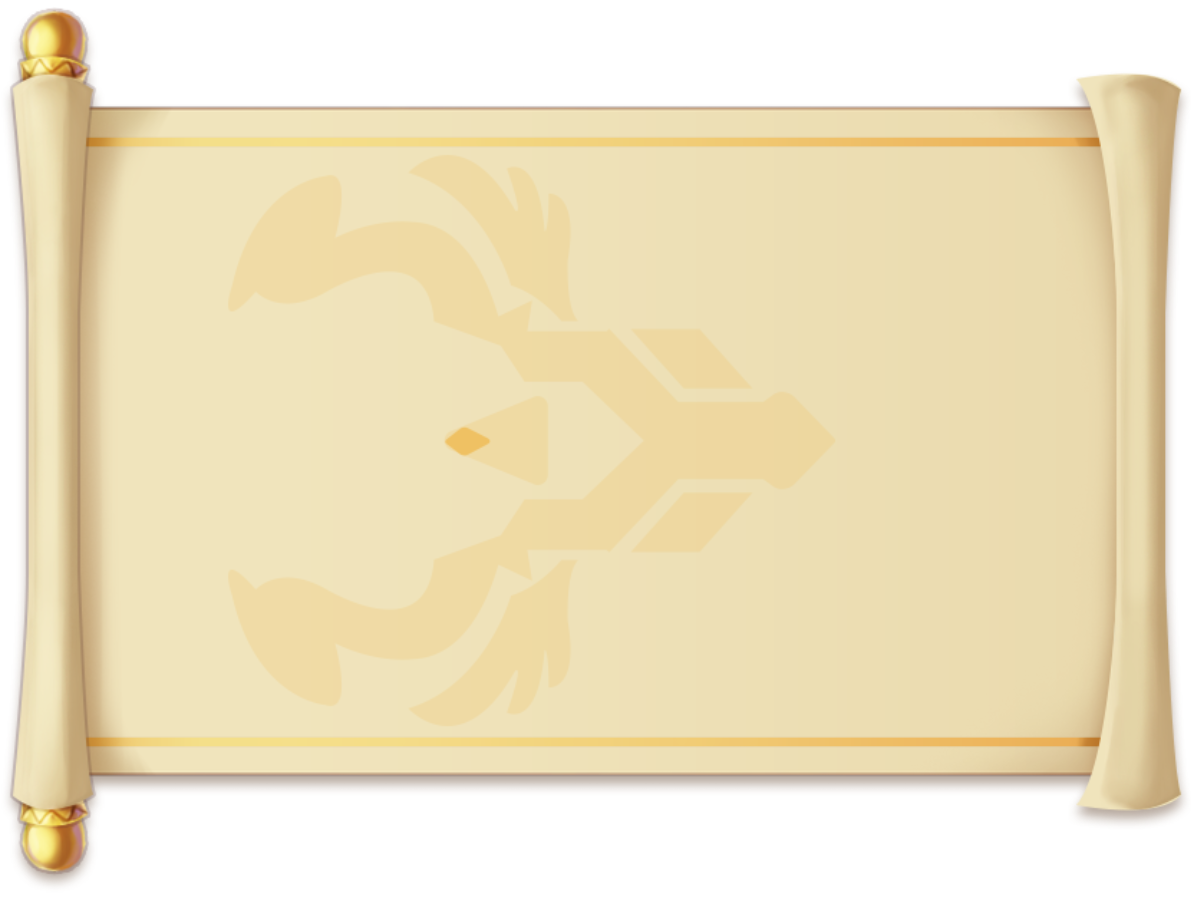
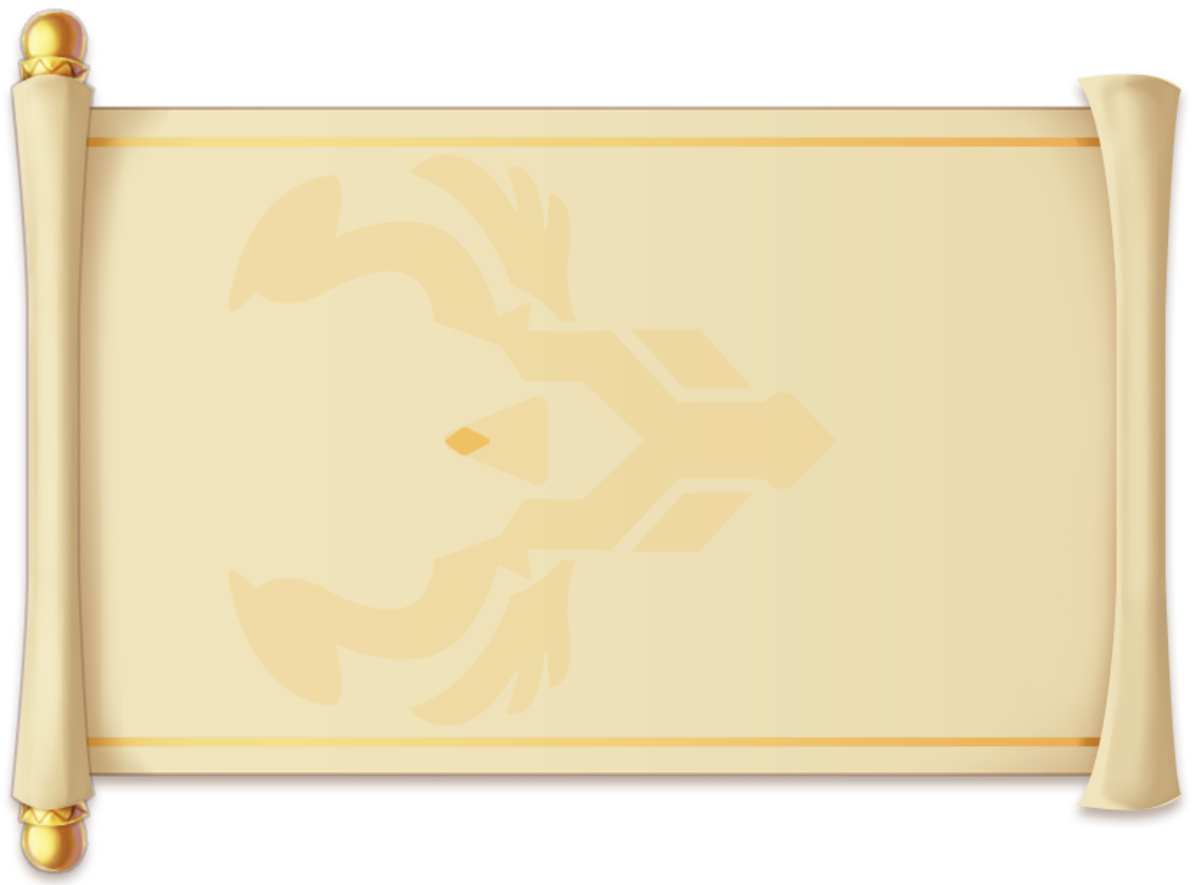
動畫全開

diff --git a/SnakeAsianLeague/wwwroot/css/Company_Info/PrivacyPolicy.css b/SnakeAsianLeague/wwwroot/css/Company_Info/PrivacyPolicy.css
@@ -17,15 +17,15 @@
 }
 
 .Service-main{
-    border: 1px solid red;
+    /* border: 1px solid red; */
     max-width: 1100px;
     width: 95%;
     margin: 0 auto;
 
-    background-image: url(/images/Company_Info/PrivacyPolicy/Paper_base.png);
+    background-image: url(/images/Company_Info/PrivacyPolicy/Paper_base-02.png);
     background-repeat: round;
     /* background-repeat: no-repeat; */
-    padding: 130px 0 140px;
+    padding: 200px 0 200px;
     position: relative;
     font-family: Noto Sans CJK TC, adobe-fan-heiti-std, 'Source Sans Pro', sans-serif;
 
@@ -38,16 +38,14 @@
     max-width: 95px;
 }
 .Service-inner{
-    border: 1px solid red;
+    /* border: 1px solid red; */
     width: 78%;
+    background-color: #ab855852;
     border-radius: 15px;
-    /* background-color: #AB8558; */
     margin: 0 auto;
-    height: 550px;
+    height: 600px;
     color: #70583C;
-
-    padding: 50px 0px 40px 30px; 
-
+    padding: 40px 0px 40px 30px;
     position: relative;
 }
 .Service-text{
@@ -64,20 +62,23 @@
 .Service-text p{
     margin-bottom: 15px;
 }
-.Service-title{
-    background-color: #AB8558;
-    /* border: 3px solid #D8B874; */
+.Privacy-title{
+    /* background-color: #8d734c; */
+    background-color: #8d734c52;
+    /* border: 2px solid #D8B874; */
     border-radius: 34px;
     display: inline-block;
-    padding: 3px 30px 4px 30px;
+    padding: 5px 30px 6px 30px;
     font-size: 24px;
     /* font-weight: 600; */
     letter-spacing: 1px;
-    /* transform: translateY(-40px); */
-    color: #E8D8BA;
+    transform: translateX(-50%);
+    color: #e8d8ba;
+    z-index: 5;
     position: absolute;
-    top: -8px;
-    left: 30px;
+    top: 170px;
+    left: 50%;
+    box-shadow: inset 0px 0px 20px 5px #d8b8749c;
 }
 
 #note{
@@ -96,24 +97,28 @@
 
 .Service-text::-webkit-scrollbar-thumb {
     border-radius: 10px  !important;
-    background-color: #cbac79 !important;
+    background-color: #af9b77 !important;
     border: none  !important;
 }
 
 .Service-text::-webkit-scrollbar-track {
     -webkit-box-shadow: inset 0 0 6px rgba(0,0,0,0.3);
     border-radius: 10px  !important;
-    background: #ab8558 !important;
+    background: #eed7a0 !important;
 }
 @media all and (max-width: 1920px){
     .Service-BG{
-        padding: 110px 0 90px;
+        padding: 130px 0 90px;
     }
     .Service-main{
         max-width: 1000px;
     }
     .Service-inner{
-        height: 480px;
+        height: 500px;
+        padding: 40px 0px 40px 30px;
+    }
+    .Privacy-title{
+        top: 142px;
     }
 }
 @media all and (max-width: 1000px){

diff --git a/SnakeAsianLeague/wwwroot/css/NFTindex/NFTindex_Banner.css b/SnakeAsianLeague/wwwroot/css/NFTindex/NFTindex_Banner.css
@@ -249,7 +249,7 @@
 #fruit_block{
     /* opacity: 0.5; */
 
-    display: none;
+    /* display: none; */
 }
 #fruit-01{
     z-index: 1;
